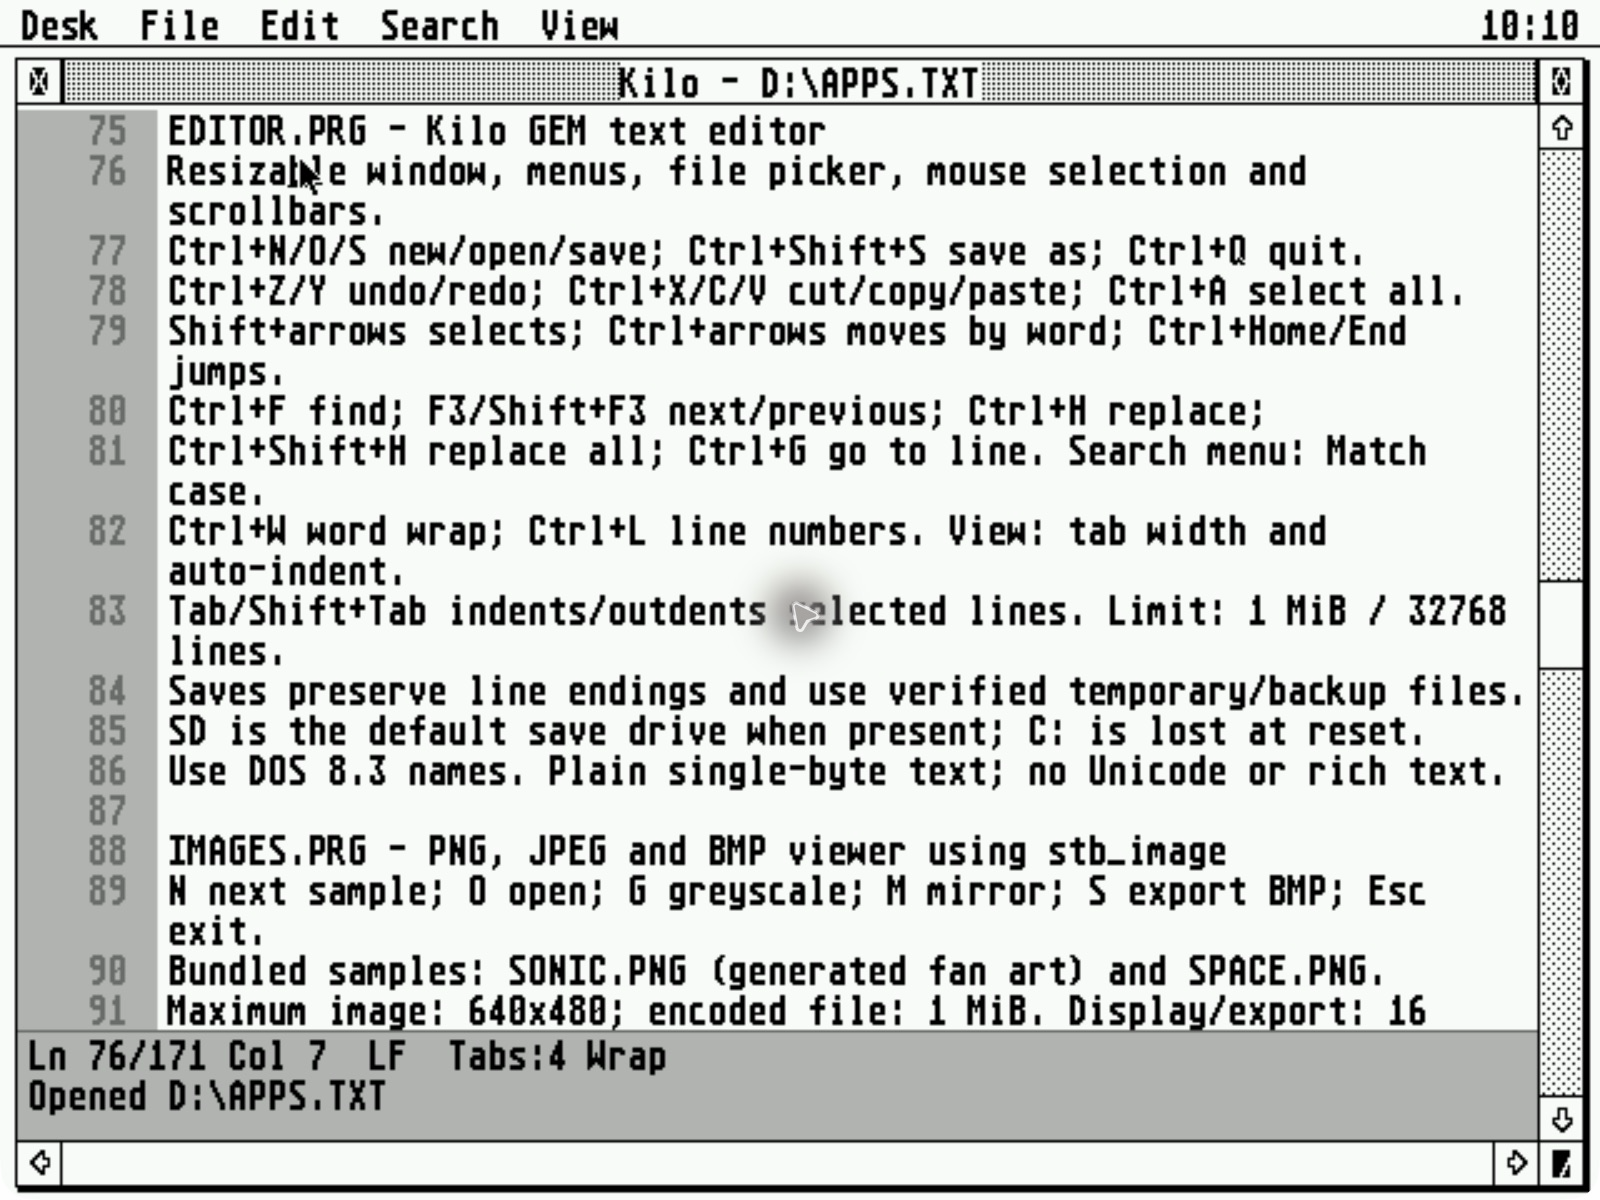
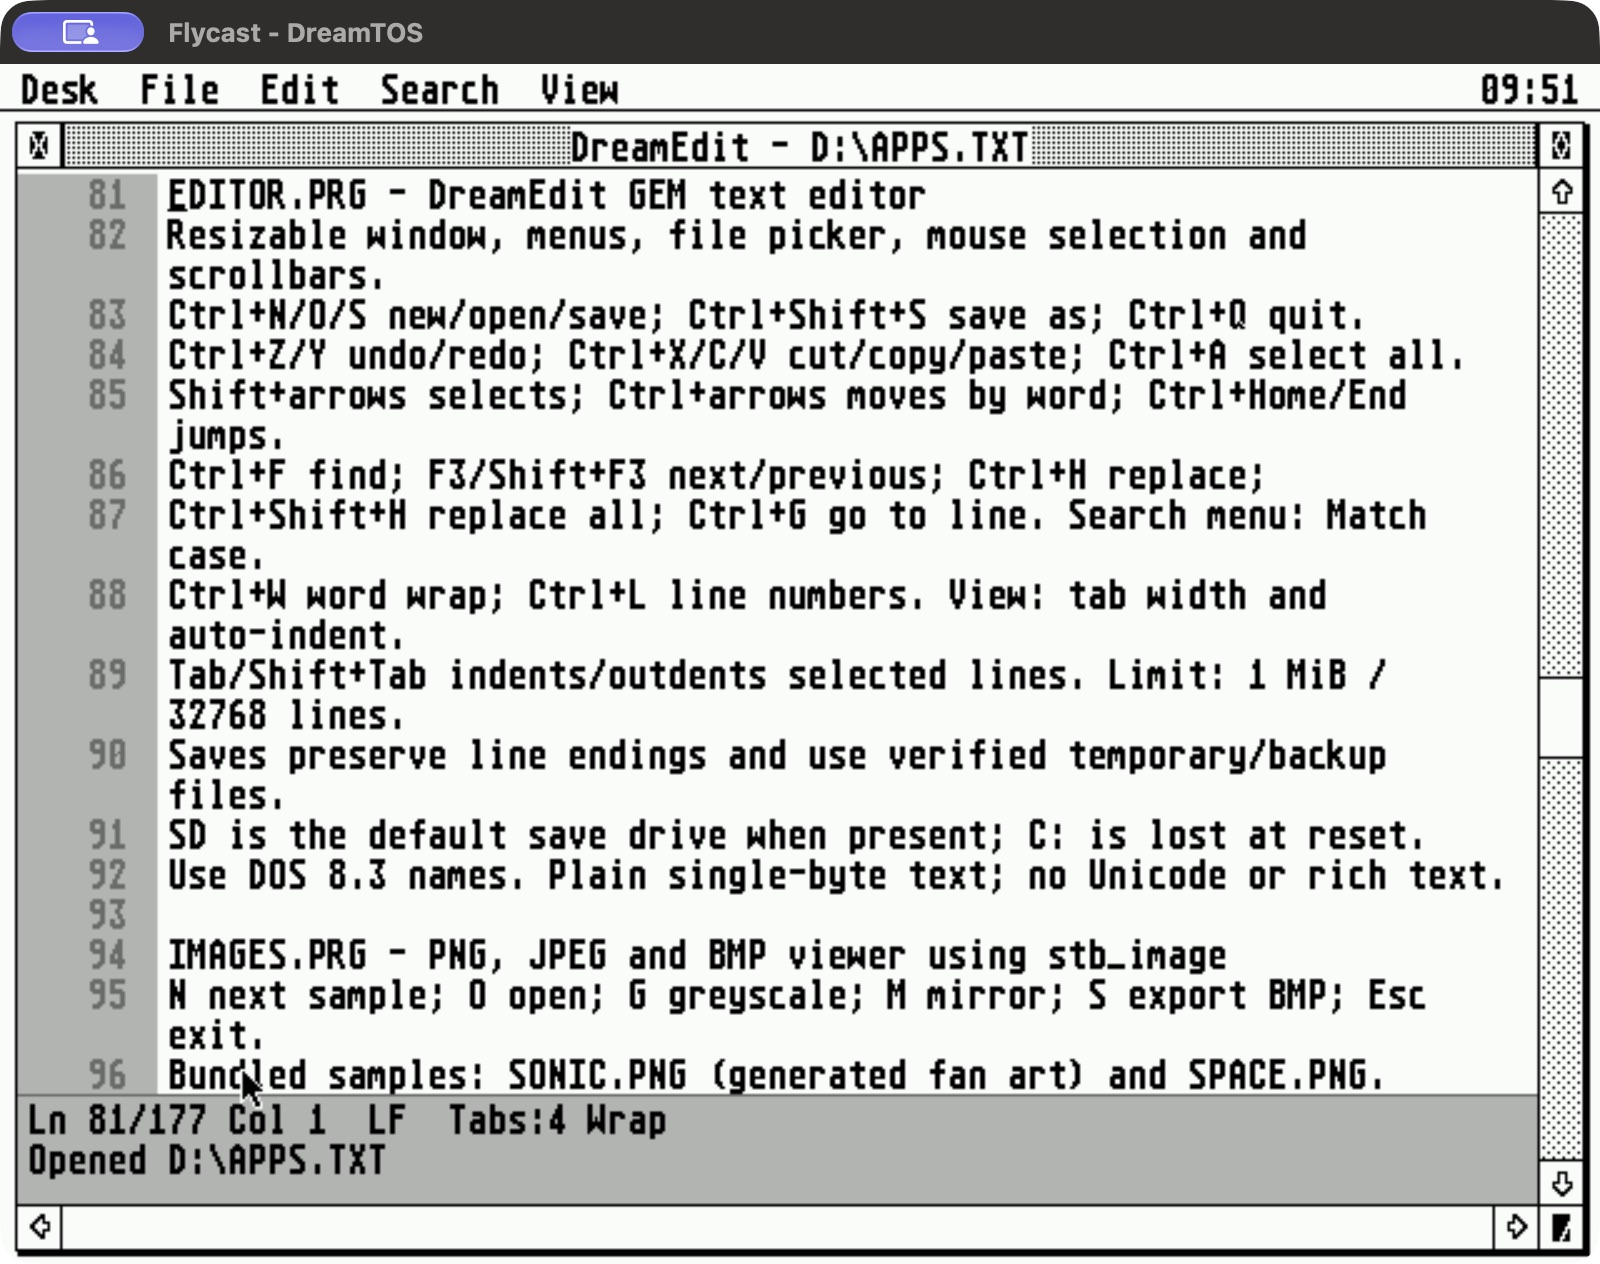
Rename the native text editor to DreamEdit

diff --git a/apps/ports/editor.c b/apps/ports/editor.c
@@ -1,4 +1,4 @@
-/* Kilo - native GEM text editor. GPL-2.0-or-later.
+/* DreamEdit - native GEM text editor. GPL-2.0-or-later.
  * The original terminal engine has been replaced by a checked document model.
  * The vendored BSD Kilo source remains unmodified for provenance. */
 #include "app.h"
@@ -408,7 +408,7 @@ static void draw(void)
 static void refresh(int all)
 {
     layout(); clamp_view();
-    snprintf(title, sizeof(title), "Kilo - %s%s", filename[0] ? filename : "Untitled", ed_dirty(&doc) ? " *" : "");
+    snprintf(title, sizeof(title), "DreamEdit - %s%s", filename[0] ? filename : "Untitled", ed_dirty(&doc) ? " *" : "");
     if (strcmp(title, last_title)) {
         snprintf(last_title, sizeof(last_title), "%s", title);
         uint32_t p = (uint32_t)(uintptr_t)title;
@@ -489,7 +489,7 @@ static void command(int c)
     ed_break_group(&doc); doc.error = NULL; preferred_col = -1;
     switch (c) {
     case C_ABOUT:
-        app_alert("Kilo text editor|1 MiB / 32768 lines|Undo, clipboard, search and GEM windows.|F3 next match; Shift+F3 previous."); force_redraw = 1; break;
+        app_alert("DreamEdit text editor|1 MiB / 32768 lines|Undo, clipboard, search and GEM windows.|F3 next match; Shift+F3 previous.|Originally based on Kilo (BSD-2-Clause)."); force_redraw = 1; break;
     case C_NEW:
         if (may_discard() && ed_load(&doc, "", 0)) {
             filename[0] = 0; top = left = 0; set_syntax(); force_redraw = 1;
@@ -578,7 +578,7 @@ static void menu_build(void)
     /* AES rewrites the first dropdown with desk accessories. Reserve six slots. */
     menu[9] = object(18, 20, 0, 0xff1100, 0, 0, 264, 16); menu[9].head = menu[9].tail = 10;
     for (int i = 10; i < 18; ++i) menu[i] = object(9, 28, 0, (intptr_t)"-------------------------------", 0, (i - 10) * 16, 264, 16);
-    menu[10].spec = (intptr_t)"  About Kilo..."; menu_action[10] = C_ABOUT; menu[11].state = 8;
+    menu[10].spec = (intptr_t)"  About DreamEdit..."; menu_action[10] = C_ABOUT; menu[11].state = 8;
     struct Item { const char *label; int command; };
     static const struct Item file[] = {{"  New                 ^N", C_NEW}, {"  Open...             ^O", C_OPEN},
         {"  Save                ^S", C_SAVE}, {"  Save as...     Shift^S", C_SAVE_AS}, {"  Quit                ^Q", C_QUIT}};
@@ -731,7 +731,7 @@ int app_main(int argc, char **argv)
     if (!ed_init(&doc)) return 1;
     if (!app_begin_windowed()) { ed_free(&doc); return 1; }
     menu_build();
-    if (!app_window_open_kind(&window, "Kilo text editor", 608, 414, 320, 180,
+    if (!app_window_open_kind(&window, "DreamEdit text editor", 608, 414, 320, 180,
         1 | 2 | 4 | 8 | 32 | 64 | 128 | 256 | 512 | 1024 | 2048)) {
         app_alert("Unable to open the editor window"); finish(); return 1;
     }

diff --git a/docs/BUNDLE.md b/docs/BUNDLE.md
@@ -5,14 +5,14 @@ native GEM AES/VDI calls and GEMDOS file access. There is no 68000 emulator,
 SDL emulator, browser or host-side application doing the work.
 
 The bundle combines a port of an existing Atari GEM application (GEM Worm)
-with new GEM frontends for established portable open-source C projects.
-Kilo, tinyexpr, stb_image and Simon Tatham's puzzles are **not presented as
+with native programs and new GEM frontends for established portable open-source C projects.
+tinyexpr, stb_image and Simon Tatham's puzzles are **not presented as
 original Atari applications**. Their real upstream engines are compiled
 into the Dreamcast programs; they are not imitations of those programs.
 
 | Program | Upstream and license | Native features |
 |---|---|---|
-| `EDITOR.PRG` | Native Kilo frontend and checked editor model, GPL-2.0-or-later; original [Kilo](https://github.com/antirez/kilo) source retained under BSD-2-Clause | GEM windows/menus, undo/redo, selection/clipboard, search/replace, wrapping, C colours, byte-preserving saves |
+| `EDITOR.PRG` (DreamEdit) | Native frontend and checked editor model, GPL-2.0-or-later; originally based on [Kilo](https://github.com/antirez/kilo), whose source is retained under BSD-2-Clause | GEM windows/menus, undo/redo, selection/clipboard, search/replace, wrapping, C colours, byte-preserving saves |
 | `IMAGES.PRG` | [stb_image](https://github.com/nothings/stb), MIT/public domain | PNG/JPEG/BMP, 16-colour quantization, greyscale, mirror, BMP export |
 | `PAINT.PRG` | This project, GPL-2.0-or-later | 16-colour paint: pencil, brush, shapes, fill, picker, multi-level undo, BMP open/save |
 | `CALC.ACC` | [tinyexpr](https://github.com/codeplea/tinyexpr), zlib | Resident **Desk → Calculator** window, graphical keypad, scientific functions and `ans`; expression and answer survive closing and foreground program switches |
@@ -70,7 +70,7 @@ buttons and movement. Flycast verification primarily used the keyboard.
   (the emulated RTC in Flycast), in 24-hour format with GEMDOS two-second
   precision. Starting or exiting a foreground program hides its window; the
   accessory remains resident and can be reopened from the desktop.
-- Editor: a resizable GEM window with File/Edit/Search/View menus, mouse selection,
+- DreamEdit: a resizable GEM window with File/Edit/Search/View menus, mouse selection,
   scrollbars and native file selectors. Ctrl+N/O/S create/open/save; Ctrl+Shift+S
   saves as; Ctrl+Q closes. Unsaved work gets Save/Discard/Cancel on new/open/close.
   Ctrl+Z/Y undo/redo (Ctrl+Shift+Z also redoes); Ctrl+X/C/V cut/copy/paste;
@@ -165,9 +165,11 @@ sources use the compiler's normal alignment; GEM structs explicitly use
 no-ops. Memory is owned by the native process and reclaimed on termination.
 The native ABI's optional `millis` callback supplies monotonic game timing.
 
-Kilo now uses a checked, byte-preserving document model in `editor_core.c`,
-separate staged file I/O, and a GEM frontend; the original vendored Kilo source
-is retained unmodified. Undo records store changed spans, allocation failures
+DreamEdit began as a Kilo port and now uses a checked, byte-preserving document
+model in `editor_core.c`, separate staged file I/O, and a GEM frontend. The original
+vendored Kilo source is retained unmodified, with its BSD-2-Clause license.
+The executable remains `EDITOR.PRG`, so existing shortcuts and scripts keep working.
+Undo records store changed spans, allocation failures
 leave edits unapplied, and file loads stage the new document before replacing
 the old one. C/C++ highlighting tracks multiline comments and colours keywords,
 types, strings, numbers and preprocessor directives. Visible rows are compared
@@ -203,7 +205,7 @@ Flycast, using the native CDI and keyboard input:
   Window move/resize and full-size/restore retain the result. Native GEM
   full-size and close gadgets work with the keyboard-controlled pointer.
   Closing the window restores EmuDesk with unchanged desktop colours.
-- Editor: selection/copy/paste, undo/redo, search/replace, wrap/resize/scroll,
+- DreamEdit: selection/copy/paste, undo/redo, search/replace, wrap/resize/scroll,
   save to C:/SD, reopen, and cancel/save/discard on close.
 - Viewer: both PNG samples; mirror/greyscale; BMP export to C: and reopen.
 - Fifteen: tile movement, save, new game, restore saved board.

diff --git a/README.md b/README.md
@@ -34,8 +34,8 @@ Bundled are a selection of games, apps and utilities. Suggestions welcome.
   </tr>
   <tr>
     <td width="50%" align="center">
-      <a href="docs/screenshots/text-editor-window.png"><img src="docs/screenshots/text-editor-window.png" width="480" alt="Windowed Kilo editor with native menus, line numbers, scrollbars and word wrapping"></a><br>
-      <strong>Kilo text editor</strong>
+      <a href="docs/screenshots/text-editor-window.png"><img src="docs/screenshots/text-editor-window.png" width="480" alt="DreamEdit with native menus, line numbers, scrollbars and word wrapping"></a><br>
+      <strong>DreamEdit text editor</strong>
     </td>
     <td width="50%" align="center">
       <a href="docs/screenshots/net-puzzle.jpg"><img src="docs/screenshots/net-puzzle.jpg" width="480" alt="Simon Tatham's Net puzzle running natively with five connected tiles"></a><br>
@@ -94,7 +94,7 @@ The bootable CDI runs on real Dreamcast hardware and in Flycast.
 - E:–H: writable FAT16 volumes from an SD card on the serial port (jj1odm/DreamShell-style adapter). Use `D:\UTILS\SDFORMAT.PRG` for the graphical FAT16 formatter, with C:/D: protection and automatic remount or a reboot prompt; see [SD card support](docs/SD.md). SD transfers remain untested on hardware.
 - 68000 binary compatibility is absent.
 
-The CDI includes a [native application bundle](docs/BUNDLE.md): Kilo text editor,
+The CDI includes a [native application bundle](docs/BUNDLE.md): DreamEdit text editor,
 an image viewer with two sample pictures and BMP export, a 16-colour paint program with undo and BMP save/open, a scientific
 calculator in a movable, resizable GEM window, a [native benchmark](docs/BENCHMARK.md),
 GEM Worm, Blocks (a falling-block game), Paint, a VMU editor, Simon Tatham's Fifteen, Mines and Net, and an [MP3/WAV player](docs/AUDIO.md) that plays files from the SD card. Sources and licenses are
@@ -107,7 +107,7 @@ Open D: in EmuDesk, then choose a folder:
 
 | Folder | Contents |
 | --- | --- |
-| `APPS` | Editor, image viewer, paint and MP3/WAV player |
+| `APPS` | DreamEdit, image viewer, paint and MP3/WAV player |
 | `GAMES` | Blocks, Fifteen, Mines, Net and Worm |
 | `UTILS` | FTP server, VMU editor, FAT16 SD card formatter, system information, benchmark, diagnostics and command-line tools |
 

diff --git a/docs/SD.md b/docs/SD.md
@@ -72,7 +72,7 @@ Insert the adapter and a supported FAT16 card before booting; do not hot-swap.
 
 ## Behaviour and limits
 
-- Applications: the Kilo editor and the image viewer save to any writable drive
+- Applications: DreamEdit and the image viewer save to any writable drive
   (C: or E:-H:). Puzzle saves and Worm high scores go to the first mounted SD
   drive, falling back to C:; puzzle loads also look on C:. The MP3 player ([audio](AUDIO.md)) browses and plays `.MP3`/`.WAV` files from any mounted drive, defaulting to the SD card. The System Monitor
   lists every mounted drive. The [FTP server](FTP.md) can share an SD drive or
